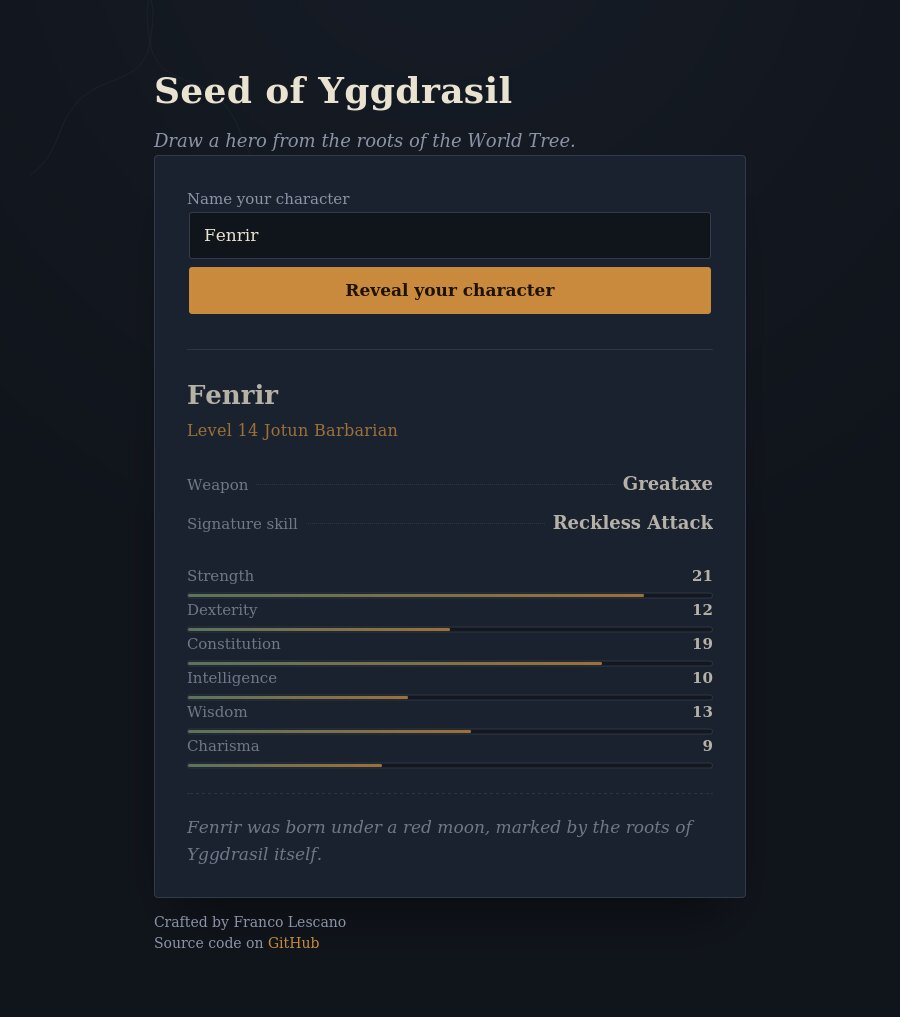
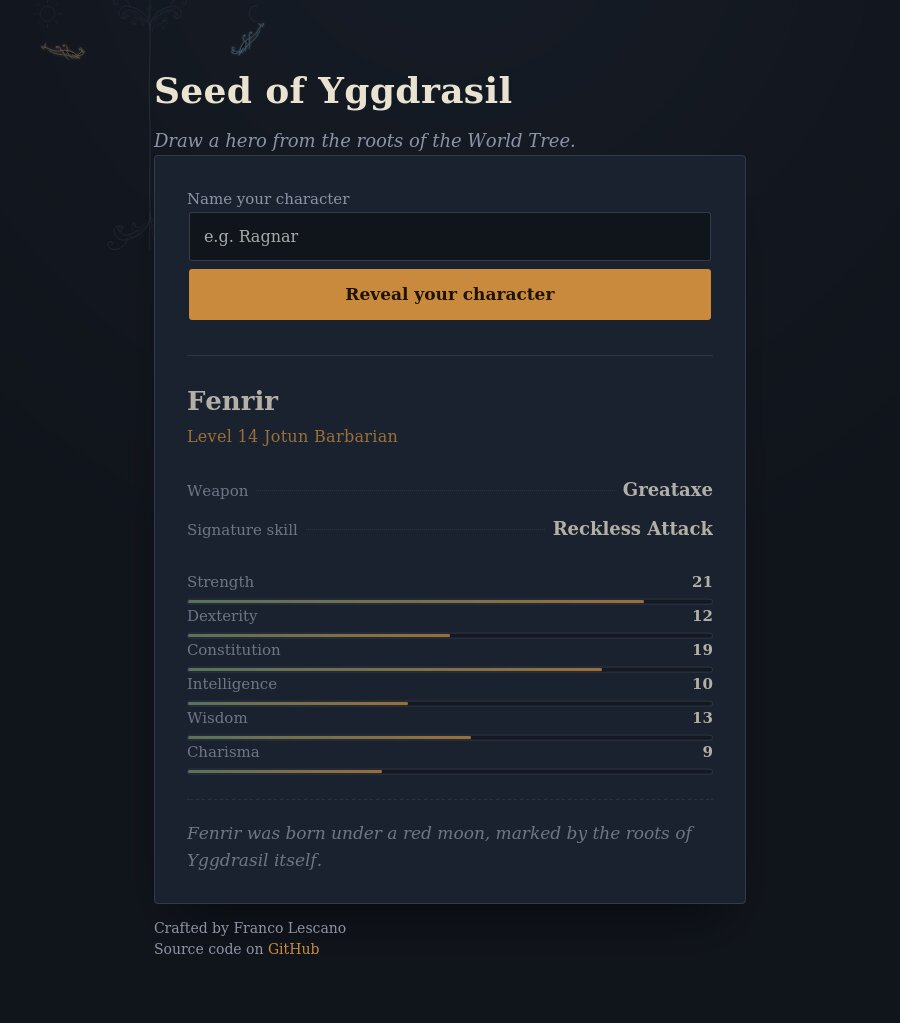
Make background monochrome

diff --git a/index.html b/index.html
@@ -20,63 +20,72 @@
     <div class="roots" aria-hidden="true">
         <svg viewBox="0 0 1200 1000" preserveAspectRatio="xMidYMid slice" xmlns:xlink="http://www.w3.org/1999/xlink">
             <defs>
-                <path id="wolf" d="M -70,-20
-                         C -50,-27 -30,-27 -10,-26
-                         C 2,-26 8,-27 10,-27
-                         C 14,-33 20,-37 26,-40
-                         L 24,-52 L 36,-40
-                         C 44,-38 52,-34 58,-28
-                         L 70,-26
-                         L 58,-16
-                         C 50,-12 42,-11 34,-12
-                         C 26,-8 18,-4 8,-2
-                         C -8,2 -26,3 -42,4
-                         C -54,5 -62,2 -68,-4
-                         C -74,-10 -74,-15 -70,-20 Z
-                         M -66,-6 C -84,-8 -100,-18 -110,-34 C -98,-26 -84,-18 -70,-14 C -68,-11 -67,-8 -66,-6 Z
-                         M 22,-4 L 36,28 L 28,30 L 10,-2 Z
-                         M 2,-1 L 12,30 L 4,32 L -8,1 Z
-                         M -30,3 L -28,32 L -36,33 L -40,4 Z
-                         M -52,3 L -56,30 L -64,29 L -60,2 Z"/>
+                <filter id="glowAmber" x="-100%" y="-100%" width="300%" height="300%">
+                    <feGaussianBlur stdDeviation="3.2" result="blur"/>
+                    <feMerge><feMergeNode in="blur"/><feMergeNode in="SourceGraphic"/></feMerge>
+                </filter>
+                <filter id="glowBlue" x="-100%" y="-100%" width="300%" height="300%">
+                    <feGaussianBlur stdDeviation="3.2" result="blur"/>
+                    <feMerge><feMergeNode in="blur"/><feMergeNode in="SourceGraphic"/></feMerge>
+                </filter>
+
+                <g id="cluster">
+                    <path d="M0,0 C0,-30 -10,-50 -40,-65 C-70,-80 -90,-75 -95,-55 C-100,-38 -82,-30 -76,-42 C-72,-50 -80,-54 -84,-48"/>
+                    <path d="M0,0 C0,-30 10,-50 40,-65 C70,-80 90,-75 95,-55 C100,-38 82,-30 76,-42 C72,-50 80,-54 84,-48"/>
+                    <path d="M-30,-45 C-45,-60 -65,-65 -78,-55 C-90,-46 -86,-32 -76,-34 C-69,-36 -71,-44 -78,-42"/>
+                    <path d="M-60,-68 C-65,-90 -82,-102 -100,-98 C-115,-94 -116,-80 -105,-78 C-97,-77 -96,-86 -103,-86"/>
+                    <path d="M30,-45 C45,-60 65,-65 78,-55 C90,-46 86,-32 76,-34 C69,-36 71,-44 78,-42"/>
+                    <path d="M60,-68 C65,-90 82,-102 100,-98 C115,-94 116,-80 105,-78 C97,-77 96,-86 103,-86"/>
+                    <path d="M0,0 C0,-40 -2,-80 0,-110 C1,-125 15,-132 18,-120 C21,-110 10,-105 6,-113"/>
+                </g>
+
+                <g id="wolf">
+                    <path d="M40,180 C60,140 90,120 130,115 C160,112 180,100 200,80"/>
+                    <path d="M55,190 C80,165 105,150 135,140 C165,130 185,110 205,90"/>
+                    <path d="M200,80 C210,70 222,65 230,58 L245,50 L235,68"/>
+                    <path d="M222,62 C224,52 220,44 214,40"/>
+                    <path d="M100,130 C95,150 88,168 78,185"/>
+                    <path d="M125,120 C122,142 116,162 106,180"/>
+                    <path d="M60,175 C50,185 42,192 32,198"/>
+                    <path d="M70,165 C58,178 48,188 36,196"/>
+                    <path d="M42,178 C25,175 8,165 2,150 C-2,140 6,132 14,138 C20,143 16,150 10,148"/>
+                    <path d="M42,178 C22,185 4,182 -6,170 C-12,163 -6,155 2,158 C8,160 6,166 0,165"/>
+                    <path d="M90,122 C85,108 88,94 100,86 C106,82 112,86 109,92 C107,96 101,94 103,89"/>
+                    <path d="M130,113 C128,98 134,86 146,80 C152,77 158,82 154,88 C151,92 146,89 148,84"/>
+                </g>
             </defs>
 
-            <g fill="none" stroke="currentColor">
-                <g stroke-width="1.6">
-                    <path d="M600 850 C 560 900, 620 920, 540 960 C 480 990, 400 985, 320 1010"/>
-                    <path d="M600 850 C 640 900, 580 920, 660 960 C 720 990, 800 985, 880 1010"/>
-                    <path d="M600 850 C 600 900, 560 930, 520 970 C 490 1000, 460 1005, 420 1030"/>
-                    <path d="M600 850 C 600 900, 640 930, 680 970 C 710 1000, 740 1005, 780 1030"/>
-                    <path d="M600 850 C 600 910, 600 940, 600 990 C 600 1010, 600 1020, 600 1040"/>
-                </g>
-
-                <path stroke-width="3" d="M600 850 C 595 700, 605 560, 598 420 C 592 320, 604 220, 600 170"/>
-
-                <g stroke-width="1.6">
-                    <path d="M600 170 C 540 155, 500 130, 420 115 C 360 103, 300 108, 240 92"/>
-                    <path d="M600 170 C 660 155, 700 130, 780 115 C 840 103, 900 108, 960 92"/>
-                    <path d="M600 170 C 560 145, 540 120, 480 88 C 450 72, 430 60, 400 40"/>
-                    <path d="M600 170 C 640 145, 660 120, 720 88 C 750 72, 770 60, 800 40"/>
-                    <path d="M600 170 C 600 135, 600 110, 600 70 C 600 50, 600 40, 600 22"/>
-                    <path d="M600 170 C 570 150, 555 135, 520 120 C 495 110, 480 105, 460 100"/>
-                    <path d="M600 170 C 630 150, 645 135, 680 120 C 705 110, 720 105, 740 100"/>
-                </g>
+            <g fill="none" stroke="#333b4b" stroke-width="2" opacity="0.9">
+                <use xlink:href="#cluster" transform="translate(600,850) scale(1.5,-1.5)"/>
+                <use xlink:href="#cluster" transform="translate(600,850) scale(0.85,-0.9) rotate(8)"/>
             </g>
 
-            <g transform="translate(220,110)" fill="none" stroke="currentColor" stroke-width="1.8">
-                <circle r="34"/>
-                <path d="M0 -50 L0 -64 M0 50 L0 64 M-50 0 L-64 0 M50 0 L64 0
-                         M-35 -35 L-45 -45 M35 -35 L45 -45 M-35 35 L-45 45 M35 35 L45 45"/>
+            <path stroke="#333b4b" stroke-width="4" fill="none" stroke-linecap="round"
+                  d="M600 850 C 595 700, 605 560, 598 420 C 592 320, 604 240, 600 120"/>
+
+            <g fill="none" stroke="#333b4b" stroke-width="2" opacity="0.9">
+                <use xlink:href="#cluster" transform="translate(600,120) scale(1.3,1.3)"/>
+                <use xlink:href="#cluster" transform="translate(600,120) scale(0.75,0.78) rotate(-6)"/>
+                <use xlink:href="#cluster" transform="translate(600,120) scale(0.5,0.53) rotate(10) translate(20,10)"/>
             </g>
 
-            <g transform="translate(980,110)" fill="none" stroke="currentColor" stroke-width="1.8">
-                <path d="M20 -36 A 36 36 0 1 0 20 36 A 27 27 0 1 1 20 -36 Z"/>
+            <g transform="translate(190,55)" fill="none" stroke="#333b4b" stroke-width="1.8">
+                <circle r="30"/>
+                <path d="M0 -44 L0 -58 M0 44 L0 58 M-44 0 L-58 0 M44 0 L58 0
+                         M-31 -31 L-40 -40 M31 -31 L40 -40 M-31 31 L-40 40 M31 31 L40 40"/>
             </g>
 
-            <!-- Sköll chasing Sól, the sun -->
-            <use xlink:href="#wolf" transform="translate(365,215) scale(-1,1) rotate(-20)" fill="currentColor"/>
+            <g transform="translate(1010,55)" fill="none" stroke="#333b4b" stroke-width="1.8">
+                <path d="M18 -32 A 32 32 0 1 0 18 32 A 24 24 0 1 1 18 -32 Z"/>
+            </g>
 
-            <!-- Hati chasing Máni, the moon -->
-            <use xlink:href="#wolf" transform="translate(835,215) rotate(-20)" fill="currentColor"/>
+            <g stroke="#e8964a" stroke-width="2.4" stroke-linecap="round" filter="url(#glowAmber)" opacity="0.85">
+                <use xlink:href="#wolf" transform="translate(300,110) scale(-0.62,0.62) rotate(18)"/>
+            </g>
+
+            <g stroke="#5fb3d9" stroke-width="2.4" stroke-linecap="round" filter="url(#glowBlue)" opacity="0.85">
+                <use xlink:href="#wolf" transform="translate(900,110) scale(0.62,0.62) rotate(-18)"/>
+            </g>
         </svg>
     </div>
 

diff --git a/README.md b/README.md
@@ -12,6 +12,7 @@ A procedural, Norse-inspired RPG character generator. Enter a name and draw a ra
 - Rule-based pairing: every race only rolls classes that fit its lore (an Elf never comes out as a Barbarian), instead of pure randomness across the full list.
 - Six core attributes (Strength, Dexterity, Constitution, Intelligence, Wisdom, Charisma) rolled per character and visualized with proportional bars.
 - Randomized saga fragments for a bit of narrative flavor on every roll.
+- Original hand-drawn SVG background: a curling, knotwork-style World Tree with Sköll and Hati — the wolves of Norse myth — rendered as flowing, glowing silhouettes chasing the sun and moon across the sky.
 - Fully static front end — no build step, no backend, no dependencies.
 - Responsive layout, keyboard-accessible form, and a reduced-motion fallback for the reveal animation.
 
